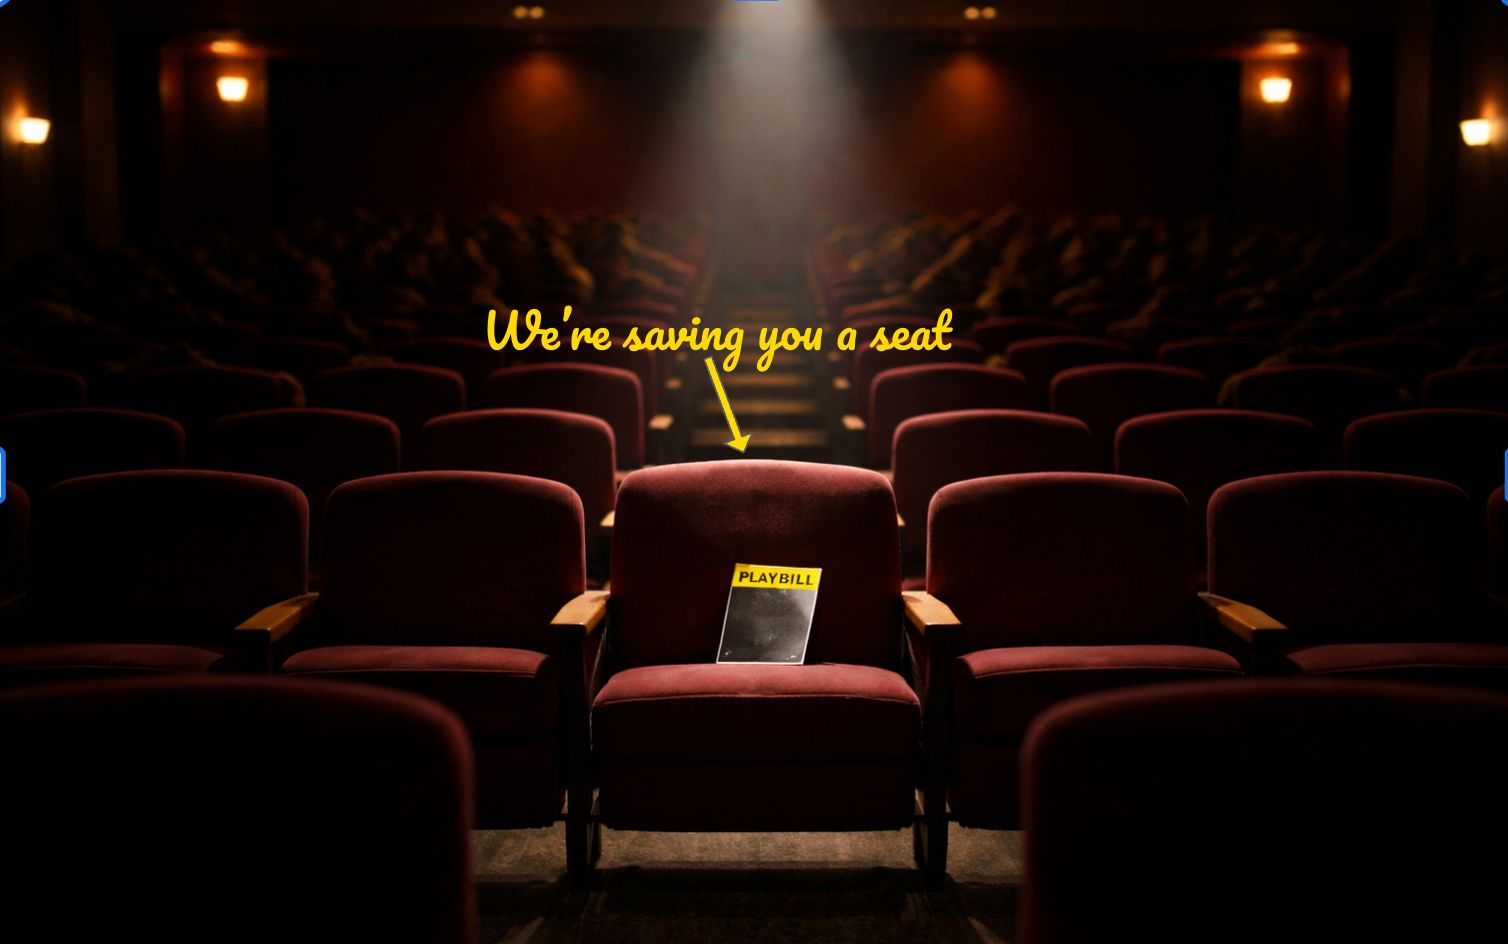
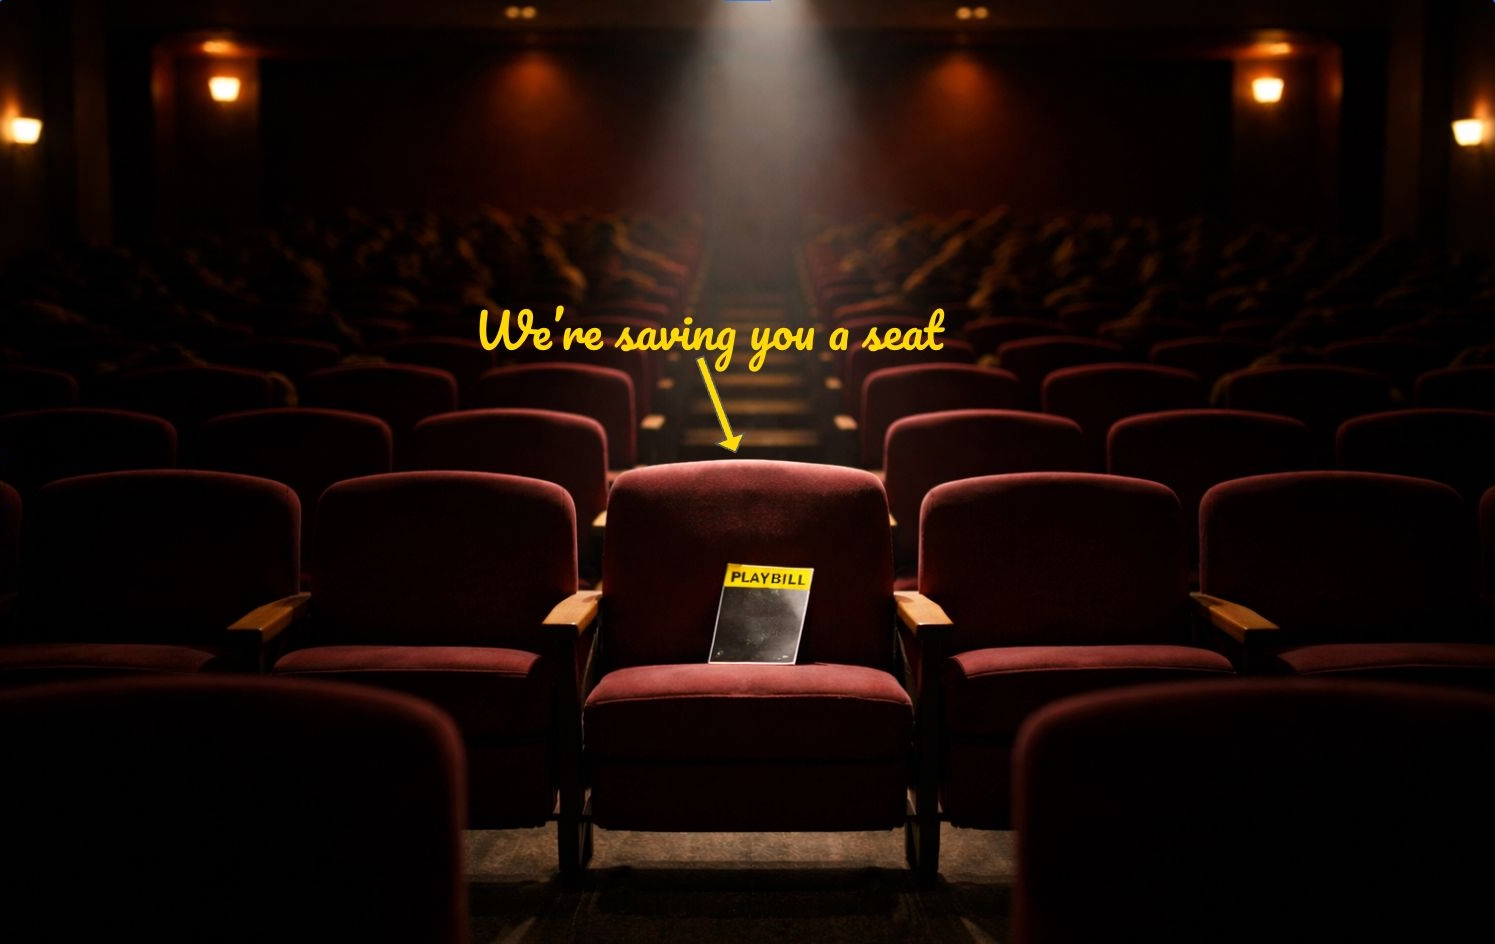
Fixed show-ending display happening too early

diff --git a/app/Http/Controllers/ShowController.php b/app/Http/Controllers/ShowController.php
@@ -116,7 +116,13 @@ class ShowController extends Controller
         $shows = Show::with('audition')
             ->with("performances")
             ->whereHas('performances', function ($query) use ($seasonDates) {
-                $query->where('date', '>=', now())
+                // Not now() — performances.date has no time component, so
+                // MySQL compares it against midnight; a bare now() (with
+                // today's real time-of-day) would make today's own
+                // performance evaluate as already past as soon as any time
+                // has elapsed since midnight, dropping the show off the
+                // homepage while it's still playing today.
+                $query->where('date', '>=', now()->toDateString())
                     ->whereBetween('date', [$seasonDates['start'], $seasonDates['end']]);
             })
             ->get()
